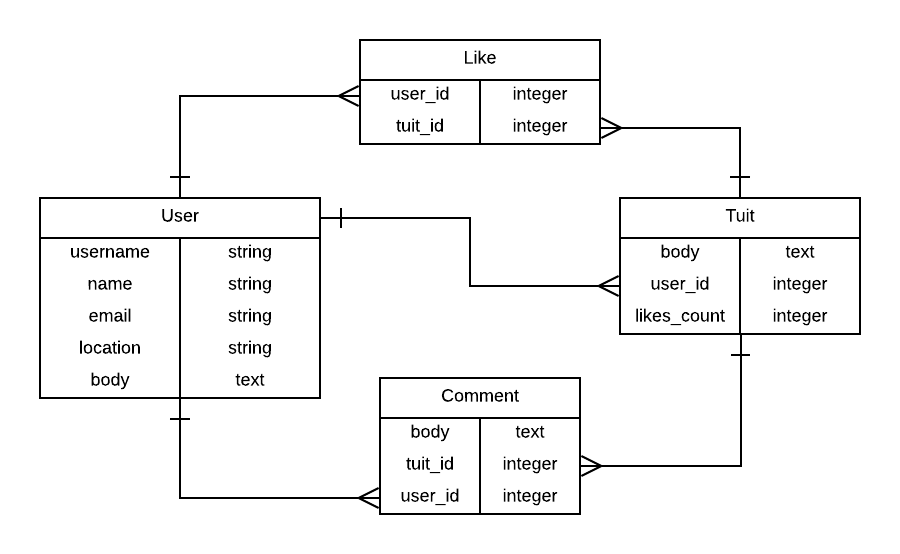
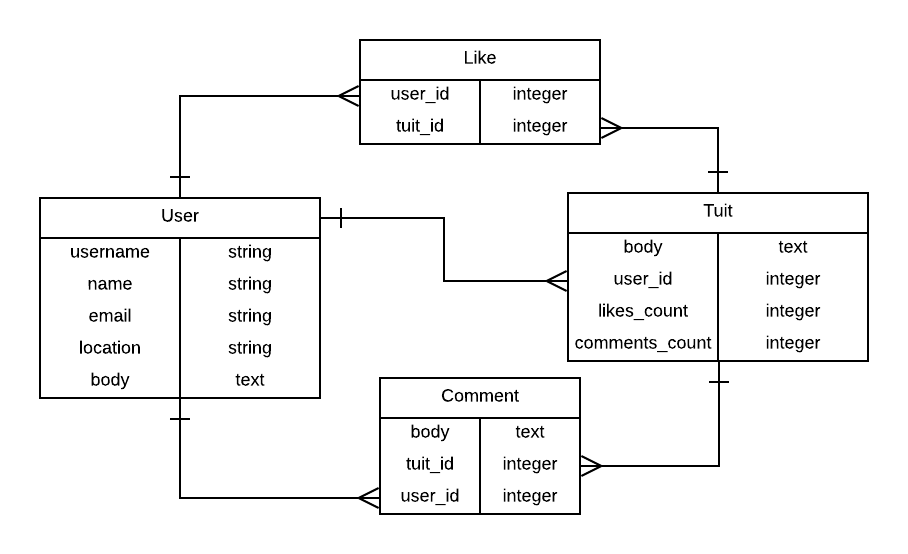
update migrations and add seeds

diff --git a/db/seeds.rb b/db/seeds.rb
@@ -5,3 +5,46 @@
 #
 #   movies = Movie.create([{ name: 'Star Wars' }, { name: 'Lord of the Rings' }])
 #   Character.create(name: 'Luke', movie: movies.first)
+require 'faker'
+
+puts 'Creating Users'
+20.times do
+  User.create!(
+    username: Faker::Name.unique.name.split.join(''),
+    name: Faker::Name.name,
+    email: Faker::Internet.email,
+  )
+end
+
+users = User.all
+
+puts 'Creating Tuits'
+
+users.each do |user|
+  rand(6..10).times do
+    user.tuits.create!(
+      body: Faker::Lorem.sentence,
+    )
+  end
+end
+
+puts 'Creating Comments'
+
+tuits = Tuit.all
+tuits.each do |tuit|
+  User.all.sample(rand(3..6)).each do |user|
+    tuit.comments.create!(
+      body: Faker::Lorem.sentence,
+      user: user,
+    )
+  end
+end
+
+puts 'Creating Likes'
+
+tuits_count = tuits.size
+tuits.sample(rand(tuits_count)).each do |tuit|
+  User.all.sample(rand(1..5)).each do |user|
+    tuit.likes.create!(user: user)
+  end
+end

diff --git a/db/schema.rb b/db/schema.rb
@@ -37,6 +37,7 @@ ActiveRecord::Schema.define(version: 2020_06_03_164020) do
   create_table "tuits", force: :cascade do |t|
     t.text "body"
     t.integer "likes_count", default: 0
+    t.integer "comments_count", default: 0
     t.bigint "user_id", null: false
     t.datetime "created_at", precision: 6, null: false
     t.datetime "updated_at", precision: 6, null: false

diff --git a/db/migrate/20200603163922_create_tuits.rb b/db/migrate/20200603163922_create_tuits.rb
@@ -3,6 +3,7 @@ class CreateTuits < ActiveRecord::Migration[6.0]
     create_table :tuits do |t|
       t.text :body
       t.integer :likes_count, default: 0
+      t.integer :comments_count, default: 0
       t.references :user, null: false, foreign_key: true
 
       t.timestamps

diff --git a/app/models/comment.rb b/app/models/comment.rb
@@ -1,4 +1,4 @@
 class Comment < ApplicationRecord
-  belongs_to :tuit
+  belongs_to :tuit, counter_cache: true
   belongs_to :user
 end
